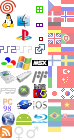
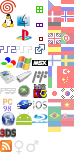
Added PSVita and Nintendo 3DS platforms

diff --git a/data/style.css b/data/style.css
@@ -818,11 +818,12 @@ a .icons { cursor: pointer }
 .icons.ps3 { background-position:   0px -84px; }
 .icons.p98 { background-position:   0px -98px; }
 .icons.web { background-position:   0px -112px; }
-.icons.feed { background-position:  0px -126px; }
+.icons.n3d { background-position:   0px -126px; }
+.icons.feed { background-position:  0px -140px; }
 
 .icons.gen.f,
-.icons.gen.b { background-position: -12px -126px; }
-.icons.gen.m { background-position: -26px -126px; }
+.icons.gen.b { background-position: -12px -140px; }
+.icons.gen.m { background-position: -26px -140px; }
 
 .icons.dvd { background-position: -16px   0px; }
 .icons.mac { background-position: -16px -14px; }
@@ -833,6 +834,7 @@ a .icons { cursor: pointer }
 .icons.xb3 { background-position: -16px -84px; }
 .icons.sat { background-position: -16px -98px; }
 .icons.and { background-position: -16px -112px; }
+.icons.psv { background-position: -16px -126px; }
 
 .icons.rtcomplete { background-position: -32px   0px; }
 .icons.rtpartial  { background-position: -32px -14px; }
